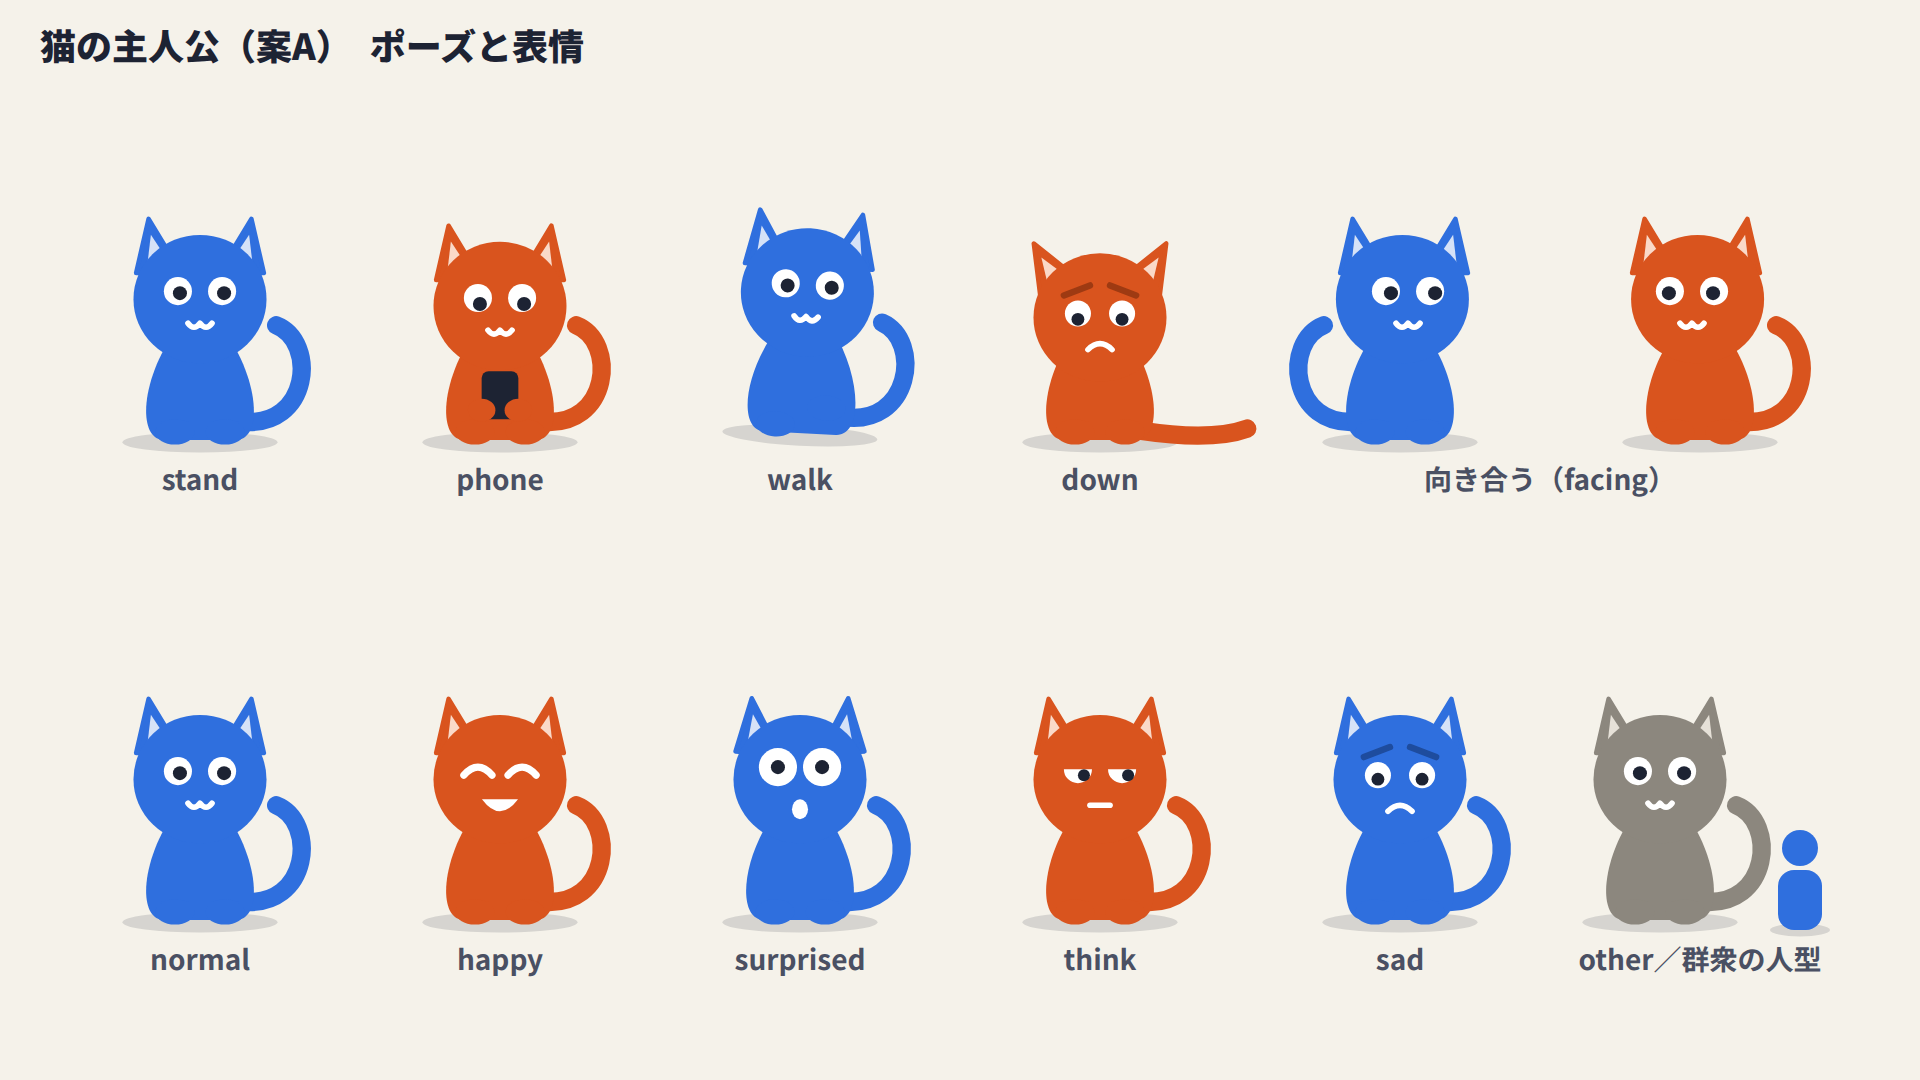
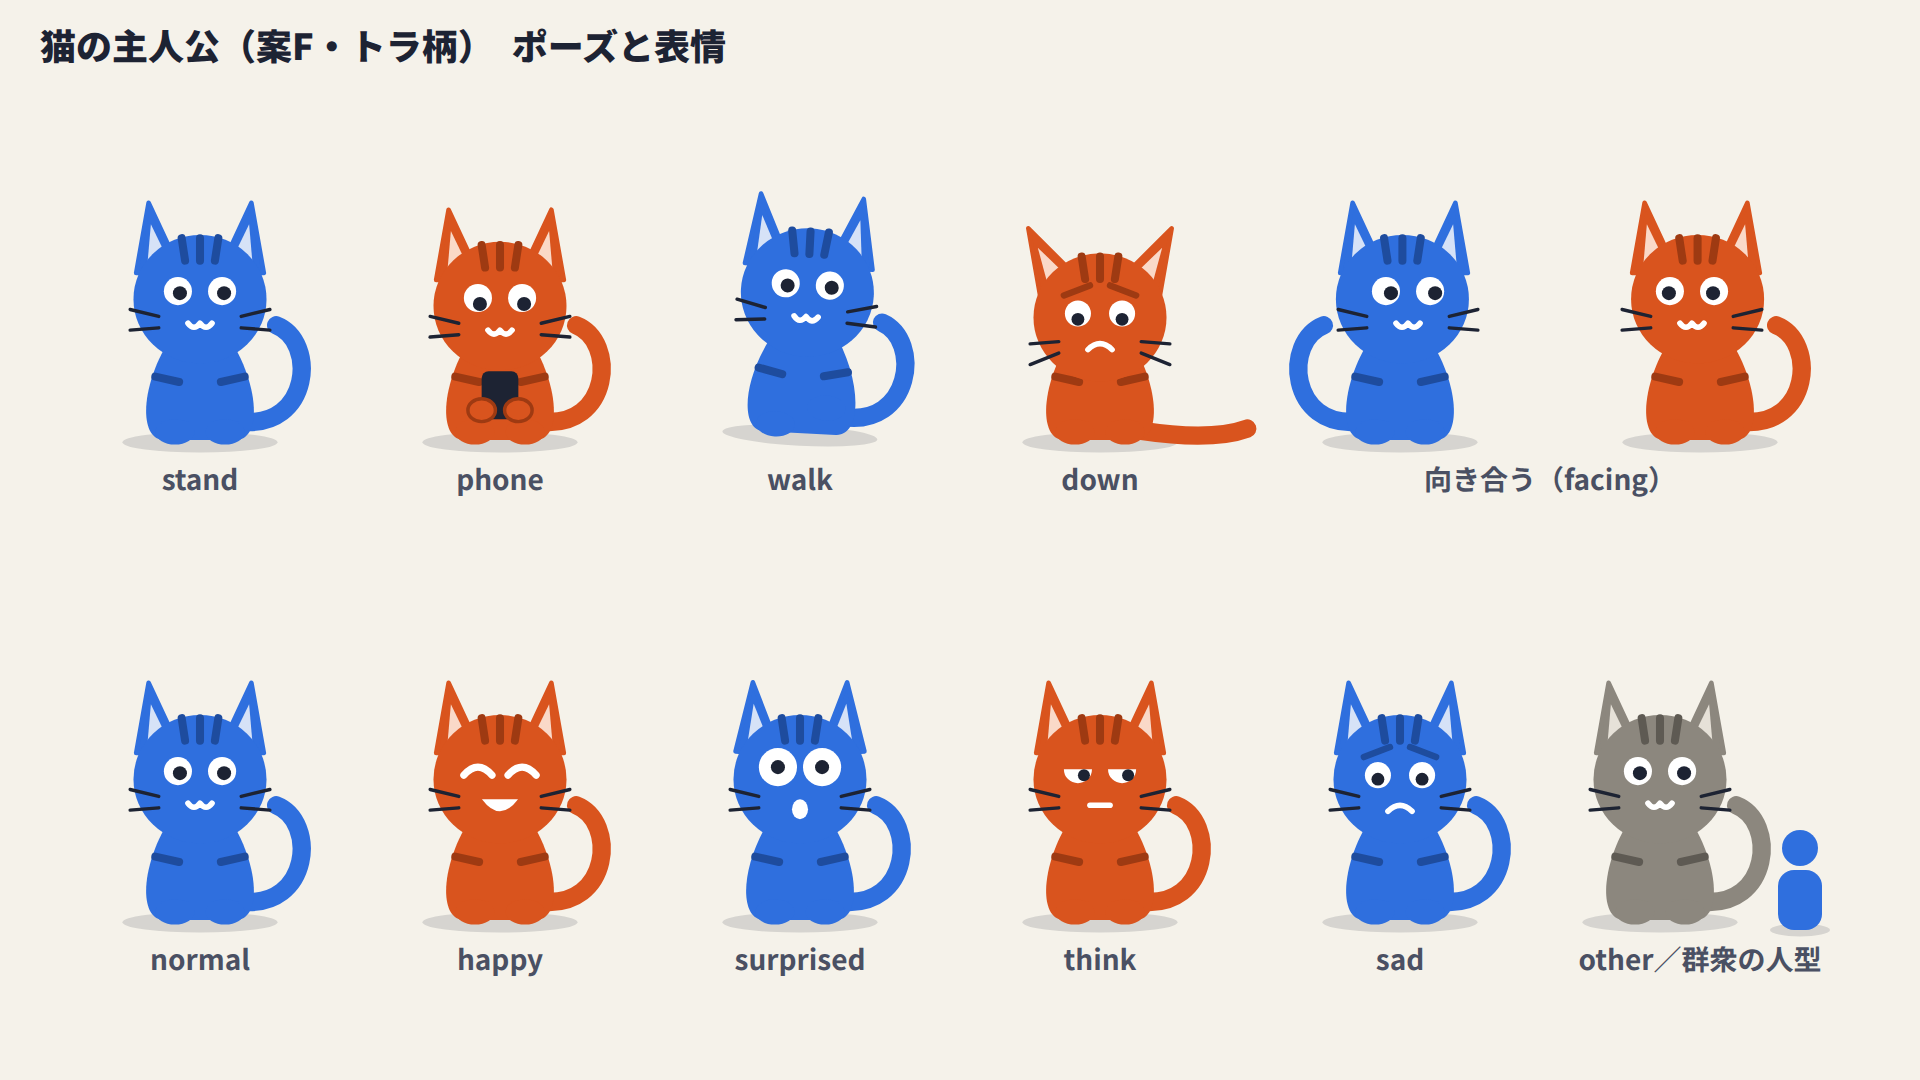
猫の主人公を素案F（トラ柄）に替える
大きめの耳、額と胴のしま、墨の細いひげ（端に横棒なし）。目と口はゴサと同じまま。
絵コンテのチェックは直すもの0。

Claude-Session: https://claude.ai/code/session_01UrfnK6HJ6yD1PEo9f9jukr

diff --git a/render/src/lib/Cat.tsx b/render/src/lib/Cat.tsx
@@ -1,7 +1,8 @@
-// 物語の主人公（猫のサブキャラ）。2026-10-05 オーナー決定：素案A（ベーシック）、目と口はゴサと同じ形。
+// 物語の主人公（猫のサブキャラ）。2026-10-05 オーナー決定：素案F（トラ柄）、目と口はゴサと同じ形。
 // 群衆（シミュレーション・データの人数）は人型の Figure のまま。寄って描く物語の場面だけ、この猫を使う。
 // 決まり（docs/brand.md「物語の主人公」）：
-//   - 形：丸い頭・とがった耳（内側は淡い色）・洋なし形の胴・丸い足先・くるんと巻いた尾。線は描かず、べた塗り。
+//   - 形：丸い頭・大きめのとがった耳（内側は淡い色）・洋なし形の胴・丸い足先・くるんと巻いた尾。線は描かず、べた塗り。
+//   - 模様：額に3本・胴の両脇に1本ずつのしま（同じ色の濃い色）、墨の細いひげ2本ずつ（ゴサのひげと違い、端に横棒を付けない）。
 //   - 色：男性＝C.male、女性＝C.female、その他（世話役など）＝C.other。墨（ゴサの色）は使わない。
 //   - 目と口：ゴサと同じ（白目に小さい墨の黒目、細い ω の口、鼻なし）。3〜5秒ごとにまばたき。
 //   - 大きさは Figure と同じ物差し（size 1 で高さ約50px）。原点＝足元の中心。
@@ -53,7 +54,7 @@ export const Cat: React.FC<{
   // 耳：落ち込むと外へ倒れる
   const ear = (side: 1 | -1) => {
     const ex = side * RX * 0.62 + fx * 0.5, ey = hy - RY * 0.55;
-    const w = RX * 0.34, h = RY * 0.7;
+    const w = RX * 0.34, h = RY * 0.95;
     const tilt = down ? side * 20 : face === "surprised" ? -side * 4 : 0;
     const tip = [ex + side * w * 0.45, ey - h];
     return (
@@ -120,7 +121,19 @@ export const Cat: React.FC<{
       <path d={`M ${-0.45 * BW} ${-BH} C ${-1.0 * BW} ${-0.55 * BH} ${-1.05 * BW} 0 ${-0.6 * BW} 0 L ${0.6 * BW} 0 C ${1.05 * BW} 0 ${1.0 * BW} ${-0.55 * BH} ${0.45 * BW} ${-BH} Z`} fill={fill} />
       {feet}
       {ear(-1)}{ear(1)}
+      {/* 胴のしま */}
+      <g stroke={p.dark} strokeWidth={7} strokeLinecap="round">
+        {[-1, 1].map((k) => <path key={k} d={`M ${k * BW * 0.75} ${-BH * 0.6} L ${k * BW * 0.35} ${-BH * 0.55}`} />)}
+      </g>
       <ellipse cx={fx * 0.3} cy={hy} rx={RX} ry={RY} fill={fill} />
+      {/* 額のしま */}
+      <g stroke={p.dark} strokeWidth={7} strokeLinecap="round">
+        {[-1, 0, 1].map((k) => <path key={k} d={`M ${fx * 0.3 + k * 16} ${hy - RY * 0.95} L ${fx * 0.3 + k * 13} ${hy - RY * 0.6}`} />)}
+      </g>
+      {/* ひげ（墨の細い線。ゴサと違い端に横棒なし） */}
+      <g stroke={C.ink} strokeWidth={3} strokeLinecap="round">
+        {[-1, 1].flatMap((k) => [0, 1].map((j) => <line key={`${k}${j}`} x1={fx + k * RX * 0.62} y1={my - 6 + j * 10 + (down ? 6 : 0)} x2={fx + k * RX * 1.05} y2={my - 12 + j * 18 + (down ? 14 : 0)} />))}
+      </g>
       {eye(-1)}{eye(1)}
       {mouth}
       {paws}

diff --git a/render/src/demo/CatPoses.tsx b/render/src/demo/CatPoses.tsx
@@ -13,7 +13,7 @@ const T: React.FC<{ x: number; y: number; t: string }> = ({ x, y, t }) =>
 export const CatPoses: React.FC = () => (
   <AbsoluteFill style={{ background: C.bg }}>
     <svg width={1920} height={1080}>
-      <text x={40} y={60} fontFamily={FONT} fontSize={36} fontWeight={900} fill={C.ink}>猫の主人公（案A）　ポーズと表情</text>
+      <text x={40} y={60} fontFamily={FONT} fontSize={36} fontWeight={900} fill={C.ink}>猫の主人公（案F・トラ柄）　ポーズと表情</text>
       {POSES.map((p, i) => (
         <g key={p}><Cat kind={i % 2 ? "female" : "male"} x={200 + i * 300} y={440} size={5} pose={p} phase={0.25} face={p === "down" ? "sad" : "normal"} seed={i * 7} /><T x={200 + i * 300} y={490} t={p} /></g>
       ))}

diff --git a/docs/decisions.md b/docs/decisions.md
@@ -5,7 +5,7 @@
 ## 決定済み
 
 - 2026-10-05：**物語の場面の主人公は猫のサブキャラにする**（オーナー決定。案A）。群衆（100人のシミュレーション・データの人数）は今の人型のまま（1人＝1%で数えて読めるように）。冒頭の物語・寸劇・教訓などで寄って描く主人公だけを、表情のある可愛い猫にする。ゴサ（墨の丸い語り手）とは色と形で分ける（男女の色、別の体形）。絵はコードで描く（本編のAI画像は禁止のまま）。デザインは素案を並べてオーナーが選ぶ（`render/src/demo/CatSheet.tsx`、静止画 `cat-sheet`）。`docs/brand.md` の「人物の絵柄はチャンネル内で1つに固定」は、「群衆は人型1つ、物語の主人公は猫のサブキャラ1種類」に改める（デザインが決まったら brand.md に書く）。
-  - デザインは**素案A（ベーシック）**に決定（オーナー、同日）。目と口はゴサと同じ形にそろえる（オーナー「目と口はゴサと同じトーン」）。部品 `render/src/lib/Cat.tsx`、決まりは `docs/brand.md` の「物語の主人公（猫）」。
+  - デザインは**素案F（トラ柄）**に決定（オーナー、同日。いったんAで作ったあと「Fがすき」でFに替えた）。目と口はゴサと同じ形にそろえる（オーナー「目と口はゴサと同じトーン」）。部品 `render/src/lib/Cat.tsx`、決まりは `docs/brand.md` の「物語の主人公（猫）」。
   - 1本目（v3）で猫にした場面：冒頭（彼・彼女）、飲み会（ふたりと世話焼きの先輩）、紹介の町のふたり（教訓でも使う）。同じ場面に猫と人型が混ざると不自然なので、向かい合う相手と引き合わせ役も猫にした（Claude 判断。主人公だけにしたければ戻せる）。図解の中の1人（予想タイムの「魅力の点数」、基準が上がる、封筒が降る、など）は人型のまま。
   - 同じ日の見た目の見直し（オーナー「色や線がうすくて見にくい」「チープ」「必要ならブランドデザインも見直してよい」）：面・薄い色・点線・補足の文字を濃く、細い線を太く、物語の場面に壁と床の色と家具、人に影と目（`render/src/lib/theme.ts`・`Backdrop.tsx`・`Figure.tsx`）。
 - 2026-10-05：**オーナーの試作への指摘を仕組みに反映する**（オーナーの指摘を受けて Claude が実装。中身はオーナーの確認待ち）。

diff --git a/docs/brand.md b/docs/brand.md
@@ -73,8 +73,9 @@
 - **文字**：主役の数字200、章の扉96、問い72、グラフの値64、本文44、ラベル40、字幕54、出典28。28px未満は作らない。スマホ確認は640×360に縮めて読めるか。
 - **色**：色はデータの意味（男・女・注目・その他）にだけ使う。話の対象外の人は薄い色（opacity では薄くしない）。〇△×は墨だけ。強調は蛍光ペンの黄（文字や数字の下に敷くだけ）。
 - **人型**：男女の面積をそろえる（誇張しない）。その他・無回答は丸い胴。100人の場面で1人の高さ64px以上。
-- **物語の主人公（猫）**（2026-10-05 オーナー決定、素案A）：冒頭・寸劇・教訓など、寄って描く物語の場面の登場人物は猫にする（群衆・データの人数は人型のまま）。部品は `render/src/lib/Cat.tsx`（見本は静止画 `cat-poses`、選んだときの素案は `cat-sheet`）。
-  - 形：丸い頭・とがった耳（内側は淡い色）・洋なし形の胴・丸い足先・巻いた尾。線は描かず、べた塗り。
+- **物語の主人公（猫）**（2026-10-05 オーナー決定、素案F・トラ柄）：冒頭・寸劇・教訓など、寄って描く物語の場面の登場人物は猫にする（群衆・データの人数は人型のまま）。部品は `render/src/lib/Cat.tsx`（見本は静止画 `cat-poses`、選んだときの素案は `cat-sheet`）。
+  - 形：丸い頭・大きめのとがった耳（内側は淡い色）・洋なし形の胴・丸い足先・巻いた尾。線は描かず、べた塗り。
+  - 模様：額に3本・胴の両脇に1本ずつのしま（体の色の濃い色）、墨の細いひげ2本ずつ（ゴサのひげと違い、端に横棒を付けない）。
   - 色：男性＝青、女性＝オレンジ、引き合わせ役などその他＝灰。墨（ゴサの色）は使わない。
   - 目と口はゴサと同じ形（白目に小さい黒目、細いωの口、鼻なし。オーナー「目と口はゴサと同じトーン」）。
   - ポーズ5つ（stand・sit・phone・walk・down）、表情5つ（normal・happy・surprised・think・sad）。3〜5秒ごとにまばたき。
